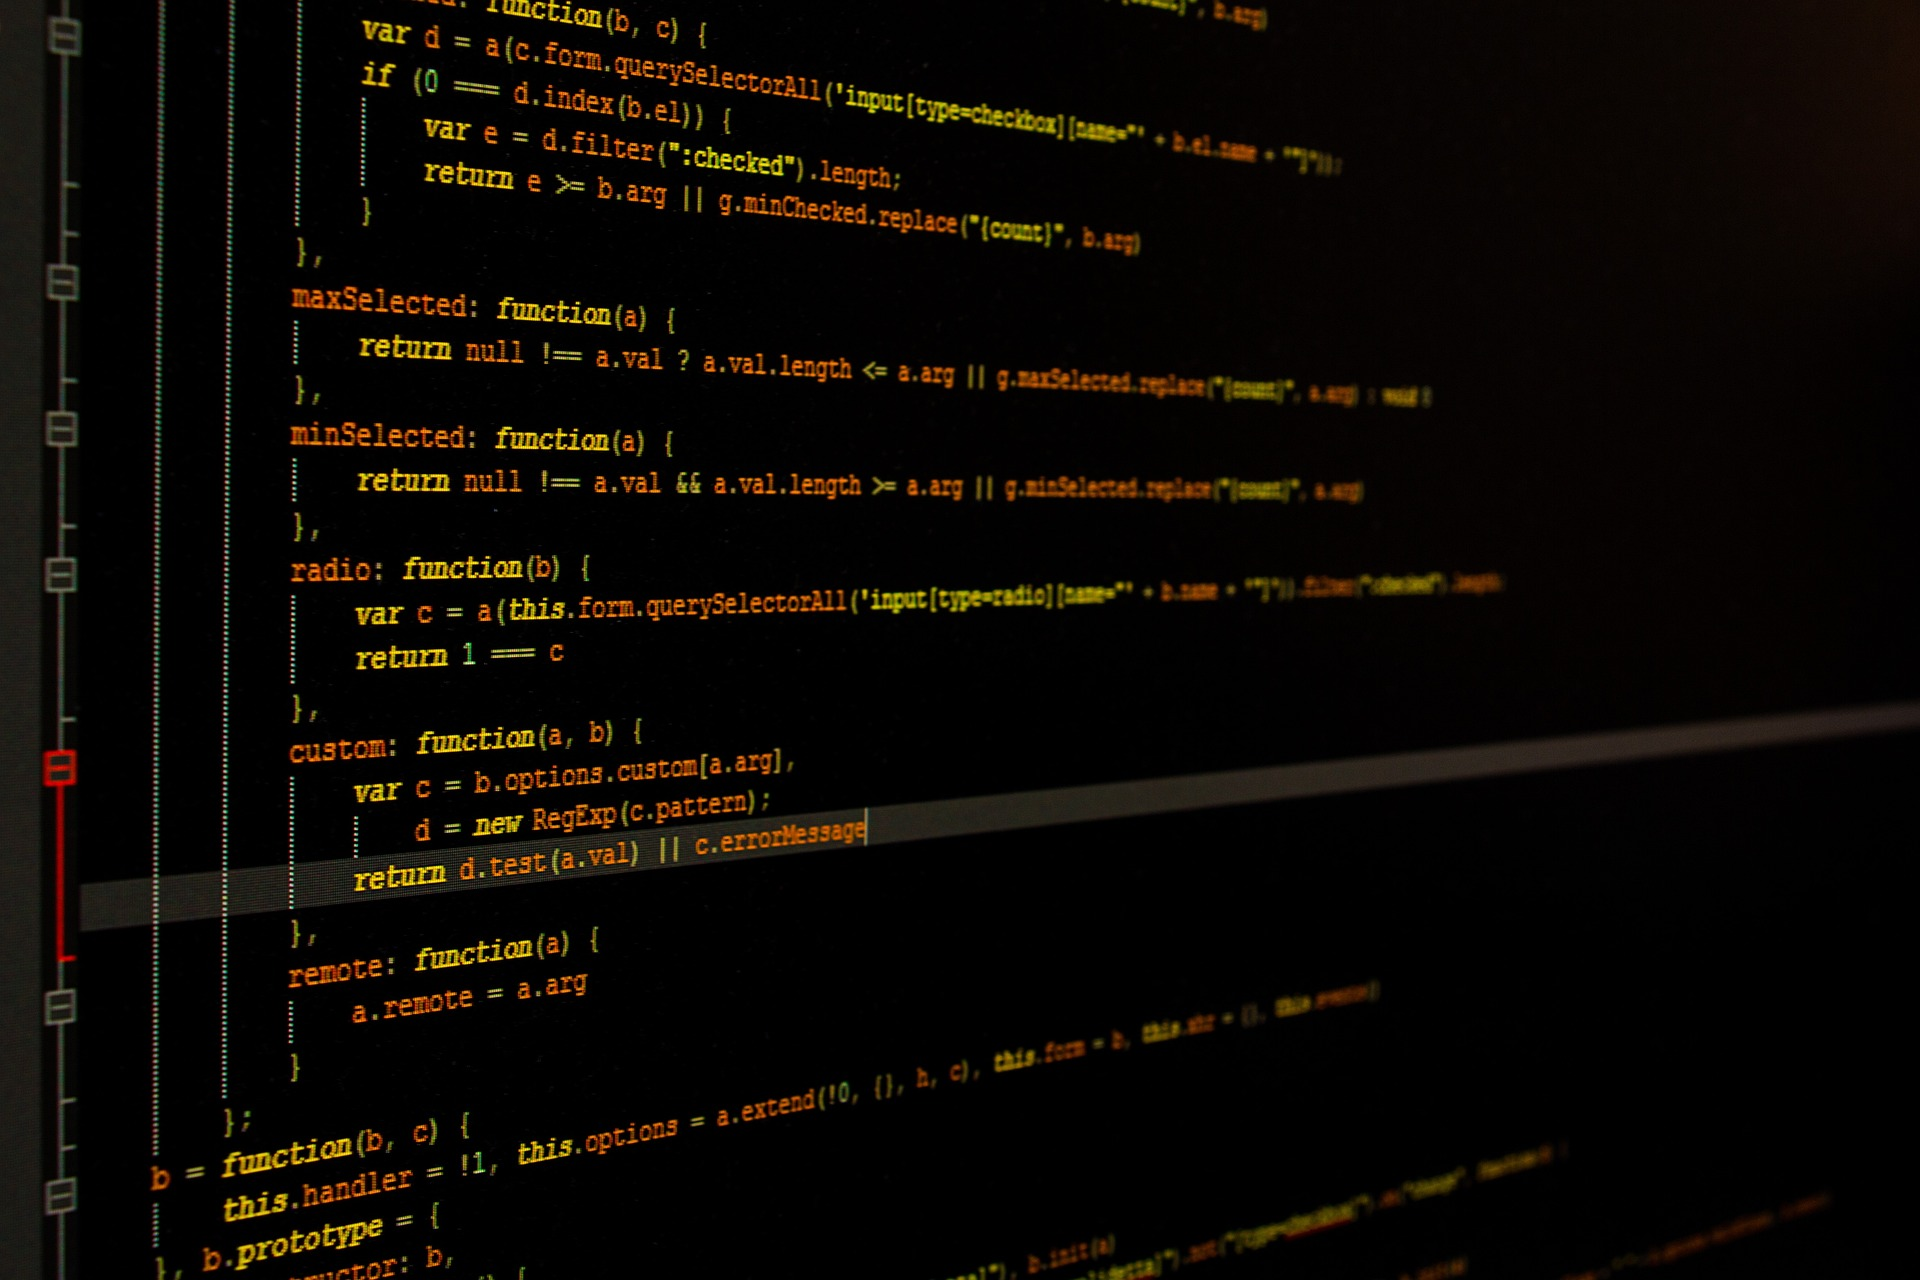
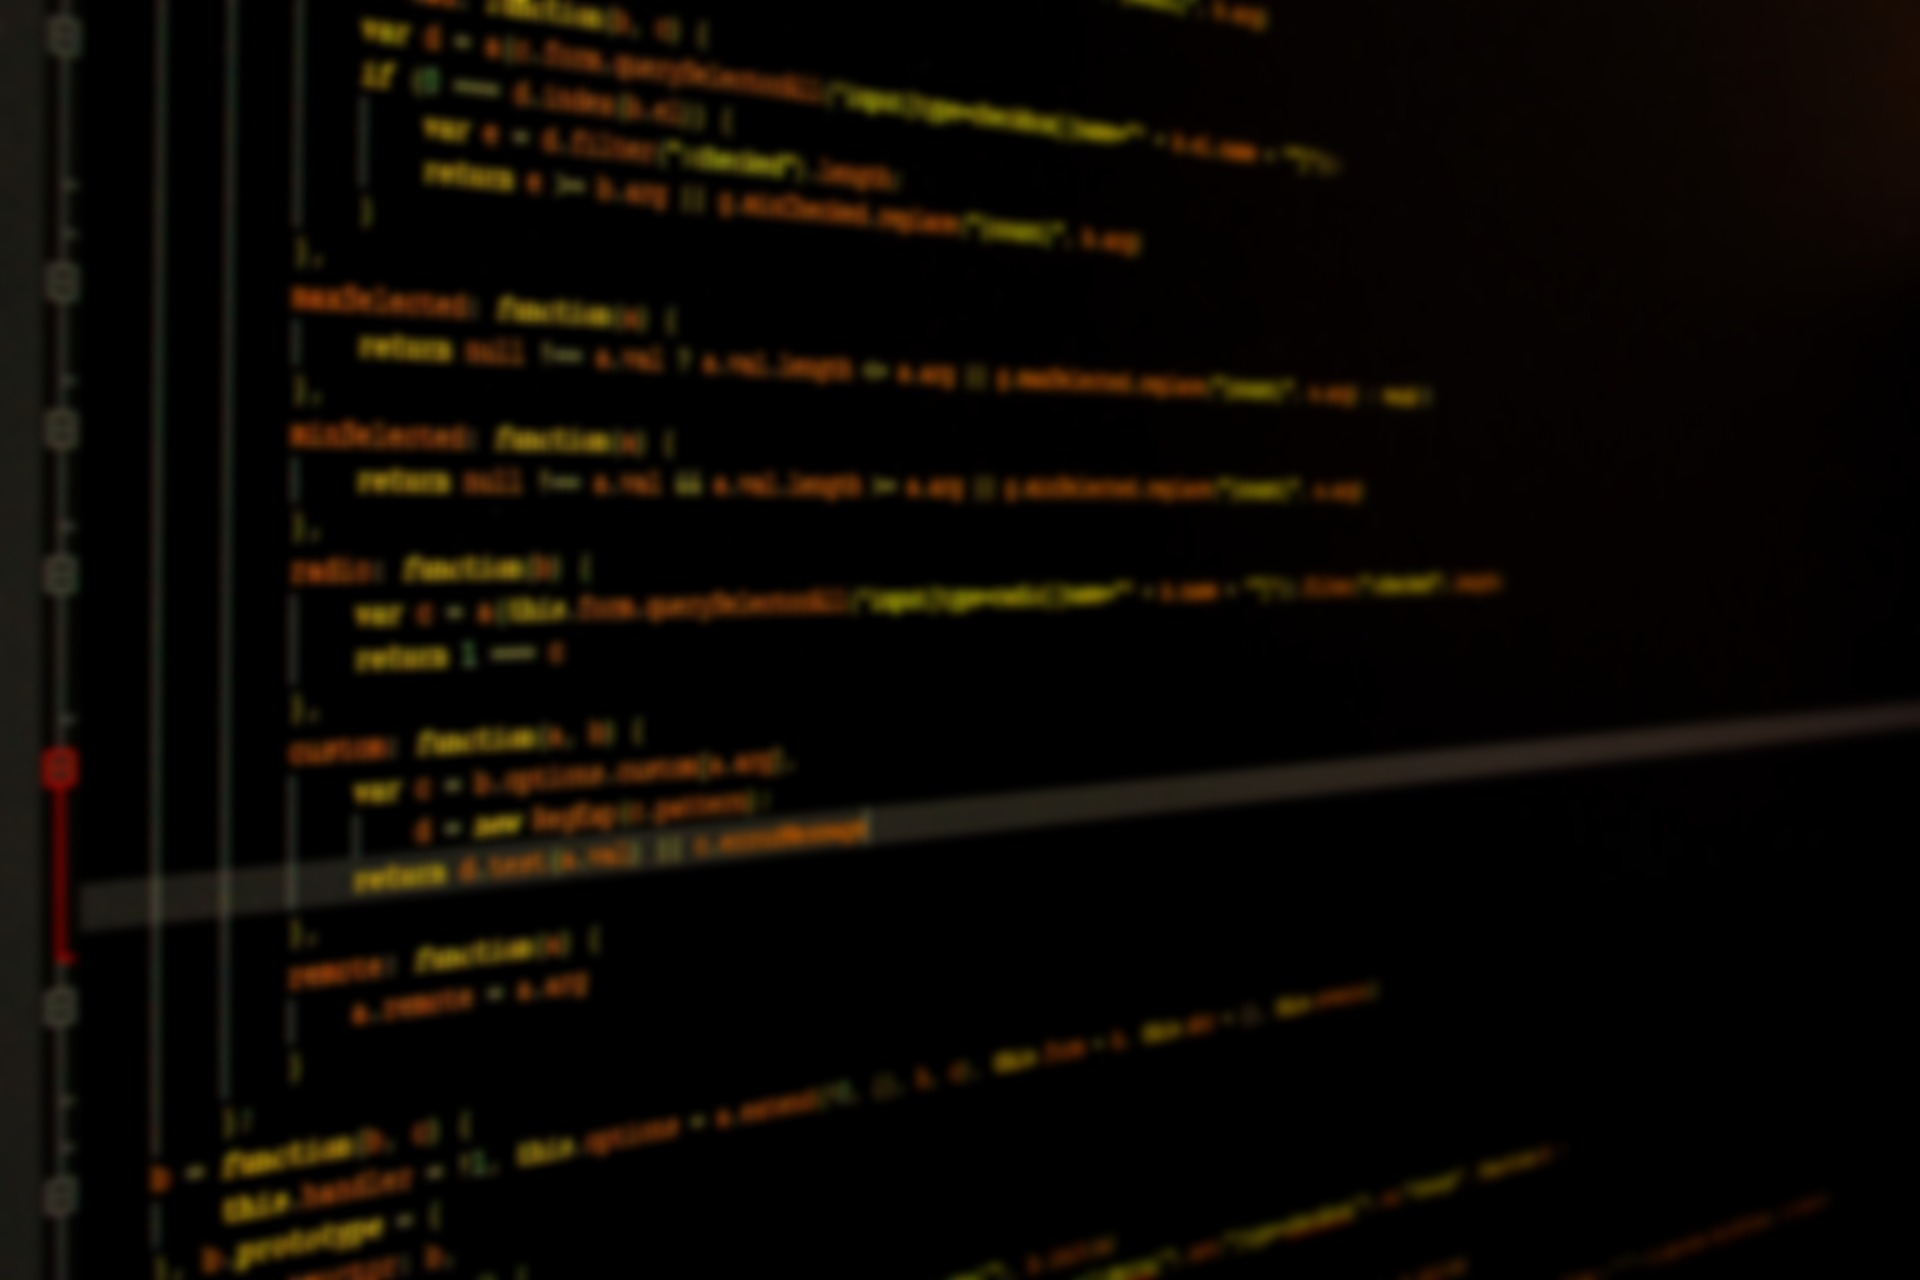
Commit du 29.11.22
- Modification padding bouton CV
- Background blur
- Continuité du module des projets

diff --git a/style.css b/style.css
@@ -2,12 +2,12 @@
     margin: 0;
     padding: 0;
     font-family: 'Silkscreen', cursive;
+    scroll-behavior: smooth;
 }
 
 /*Premier container */
 #first_container{
     background-image:  url('img/background.jpg');
-    backdrop-filter:  blur(10px);
     height: 100vh;
 }
 
@@ -61,7 +61,7 @@ nav ul li a{
 }
 
 #introduction_container button{
-    padding: 10px;
+    padding: 15px;
     border: none;
     border-radius: 30px;
     margin-top: 10px;
@@ -143,11 +143,12 @@ nav ul li a{
     font-size:  50px;
 }
 
-.used_languages  img{
+.used_languages img{
     margin: 0;
     height: auto;
     width: 100px;
 }
+
 
 
 

diff --git a/index.html b/index.html
@@ -15,11 +15,13 @@
     </header>
 
 <!--Premier container (présentation)-->
+
+<div id="background_image"></div>
 <div id="first_container">
     <nav>
         <ul>
             <li><a href="">Accueil</a></li>
-            <li><a href="">Mes projets</a></li>
+            <li><a href="#second_container">Mes projets</a></li>
             <li><a href="">Mes langages</a></li>
             <li><a href="">Expérience pro.</a></li>
             <li><a href="">Contact</a></li>
